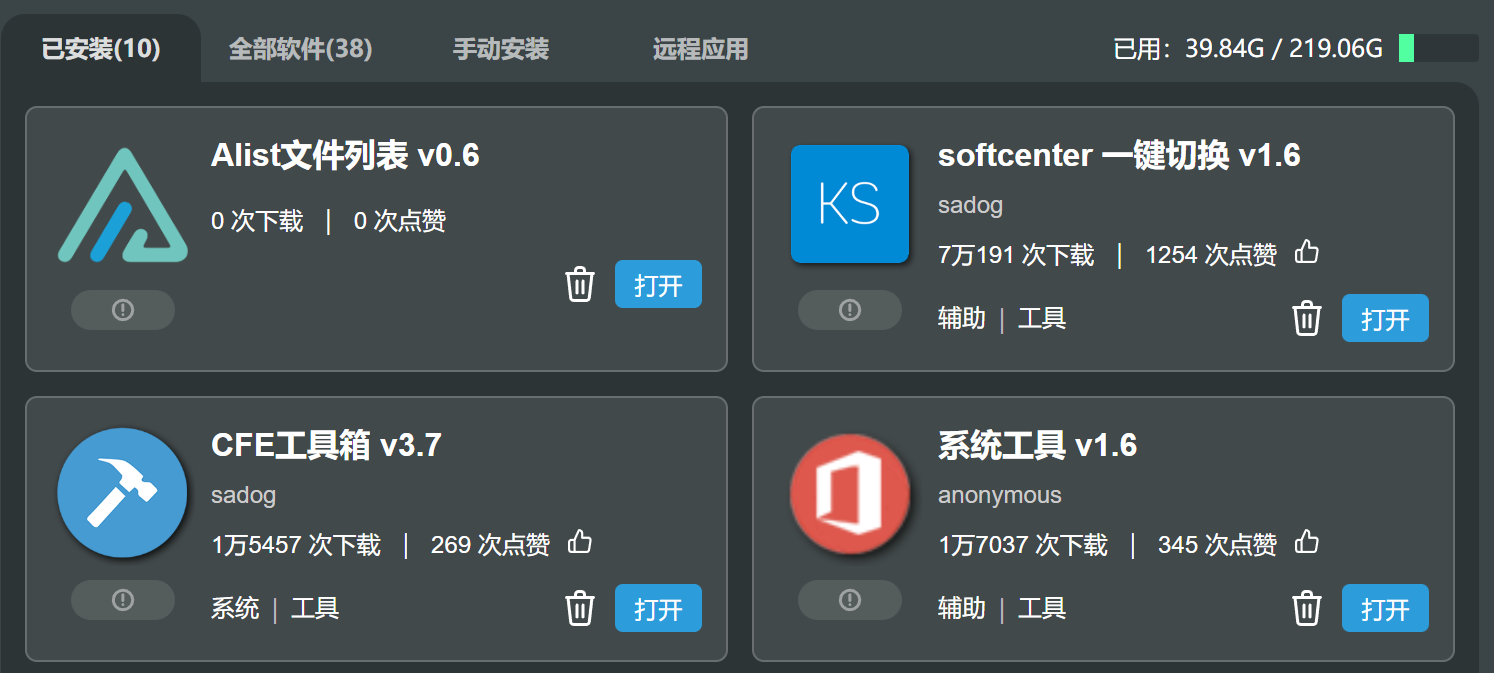
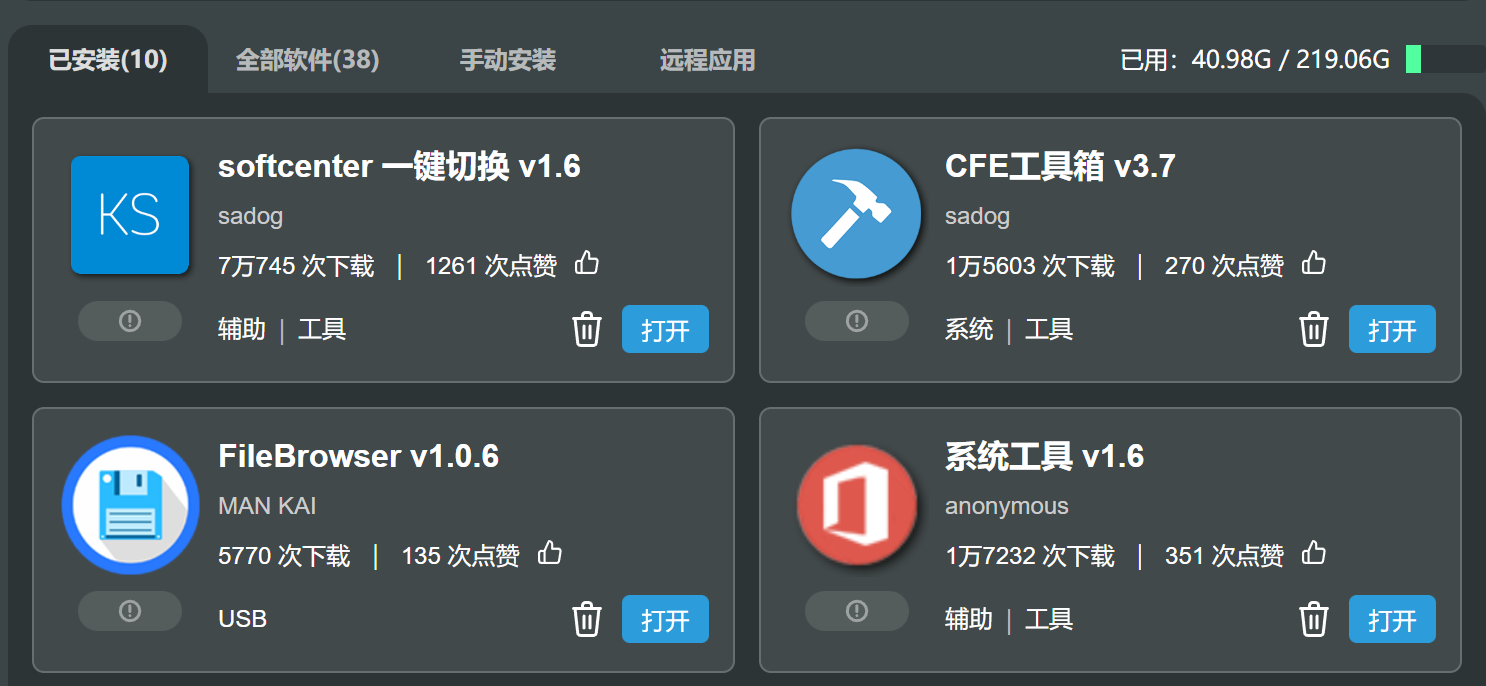
2209

diff --git a/source/_posts/279.md b/source/_posts/279.md
@@ -1,5 +1,5 @@
 ---
-title: 捣鼓我的华硕路由器插件
+title: 华硕路由器插件 File Browser 开启HTTPS
 categories:
   - - 记录
   - - 生活
@@ -7,7 +7,7 @@ categories:
 date: 2022-11-24 14:57:51
 tags:
   - - 梅林路由器
-  - - 科学上网
+  - - File Browser
 updated:
 index_img: /2022/11/24/279/202211241501.png
 banner_img: /2022/11/24/279/202211241503.png
@@ -16,14 +16,24 @@ typora-root-url: 279
 
 > 捣鼓路由器
 
- 之前用 https://vercel.com/ 搭建的网盘一直不稳定，偶尔在外面需要用到一些常用的工具
+          之前用 https://vercel.com/ 搭建的网盘一直不稳定，偶尔在外面需要用到一些常用的工具
 
-所以我直接在我的华硕路由器上安装了一个 alist 插件，感兴趣的朋友也可以安装一个试试
+所以我直接在我的华硕路由器上安装了一个 [File Browser](https://github.com/filebrowser/filebrowser) 插件，感兴趣的朋友也可以安装一个试试
 
-插件地址 https://github.com/alist-org/alist
+        安装此版本 [File Browser](https://github.com/filebrowser/filebrowser)  内核升级到2.23.0 ，增加HTTPS的支持，但是HTTPS需要自行在配置文件中手动修改
+
+```
+./filebrowser -a "$lan_ipaddr" -p $port  -t "/jffs/.cert/cert.pem" -k "/jffs/.cert/key.pem" -r // >/dev/null 2>&1 &
+```
+
+SSL 证书是绝对路径，后面需求量大了，我再把SSL证书做到面板中
+
+同时修复了，端口被K的bug.
 
 ------
 
 ![](/2022/11/24/279/202211241501.png)
 
- 给个案例你们试试吧  https://rous.xxhat.xyz:5244
+ 给个案例你们试试吧  https://rous.xxhat.xyz:4435
+
+插件下载地址： [点此下载](https://rous.xxhat.xyz:4435/share/G9jKW7aN)  有效期 30天 ，下载密码 618618
